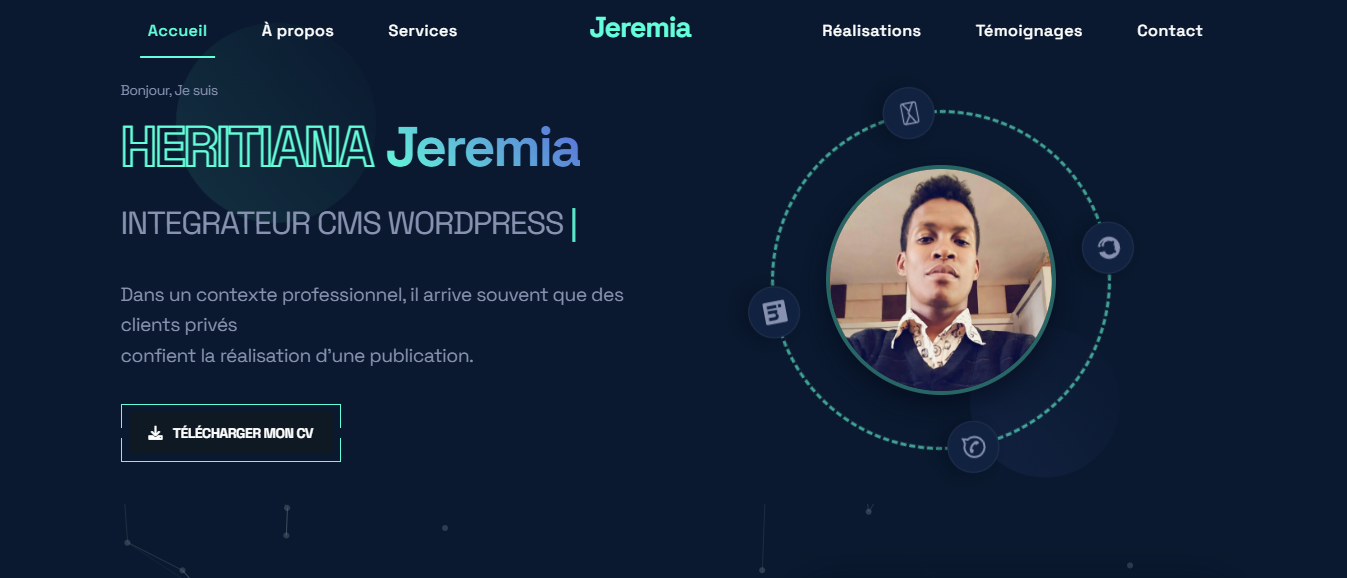
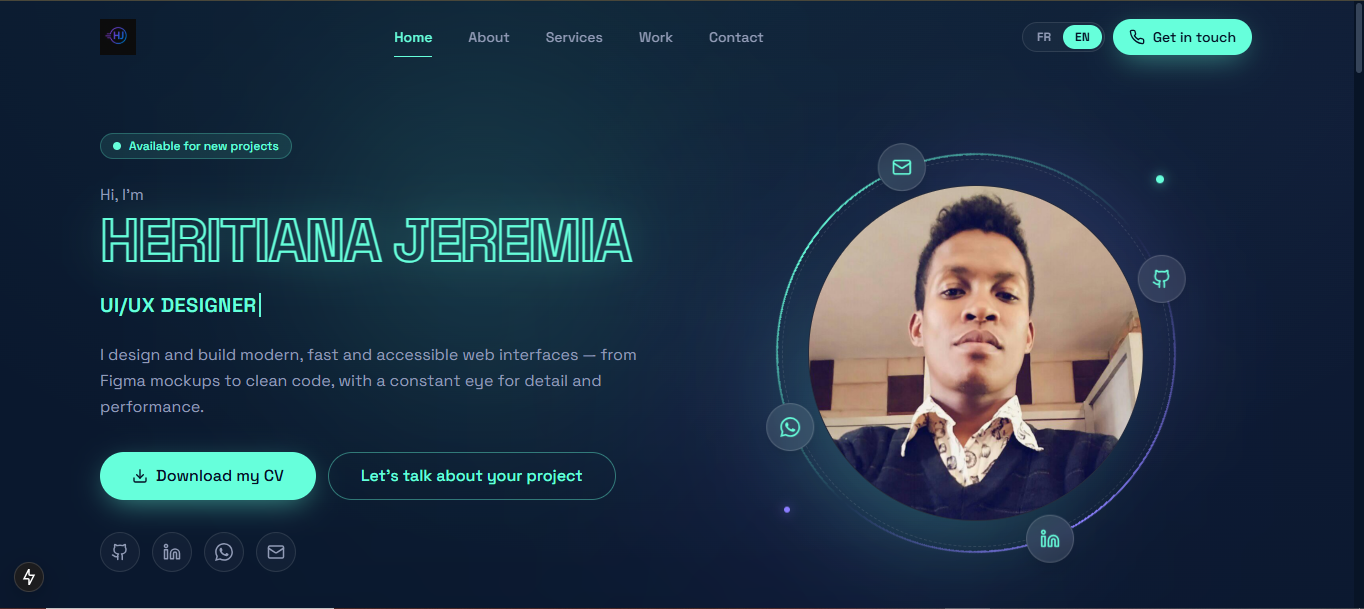
second commit

diff --git a/lib/data.ts b/lib/data.ts
@@ -192,6 +192,43 @@ export const projects: Project[] = [
       en: "Full Figma mockup of the Softimad website.",
     },
   },
+    {
+    id: "design_web",
+    name: "Web studio",
+    category: "design",
+    image: "/img/img-projet/meb-studio.png",
+    url: "https://www.figma.com/proto/QsDp9Is3a3Wz0IhhFSs6Bd/Meb?node-id=49-344&t=5q55nYL1WGXoVljV-0&scaling=scale-down-width&content-scaling=fixed&page-id=0%3A1&starting-point-node-id=49%3A344",
+    url: "https://mebstudio.mg/",
+    tags: ["Figma", "Web Design"],
+    desc: {
+      fr: "Maquette Figma complète du site Meb Studio.",
+      en: "Full Figma mockup of the Meb Studio website.",
+    },
+  },
+   {
+    id: "design_web",
+    name: "Web Design",
+    category: "design",
+    image: "/img/img-projet/mangabay.png",
+    url: "https://https://mangabaylodge.com/fr/",
+    tags: ["Figma", "Web Design"],
+    desc: {
+      fr: "Maquette Figma complète du site Meb Studio.",
+      en: "Full Figma mockup of the Meb Studio website.",
+    },
+  },
+   {
+    id: "design_web",
+    name: "Web Design",
+    category: "design",
+    image: "/img/img-projet/sorea.png",
+    url: "https://sorea.mg/",
+    tags: ["Figma", "Web Design"],
+    desc: {
+      fr: "Maquette Figma complète du site Meb Studio.",
+      en: "Full Figma mockup of the Meb Studio website.",
+    },
+  },
   {
     id: "design-landing",
     name: "Landing Page",
@@ -228,6 +265,42 @@ export const projects: Project[] = [
       en: "Interface concept for a mobile application.",
     },
   },
+     {
+    id: "design-app",
+    name: "Application mobile",
+    category: "design",
+    image: "/img/img-projet/appbefiana.png",
+    url: "https://www.figma.com/proto/q6nndM1gE82KQvBeyyEvPn/Befiana?node-id=377-3532&t=8IpKlc8sfECu5MfV-0&scaling=scale-down&content-scaling=fixed&page-id=326%3A3551&starting-point-node-id=377%3A3062&show-proto-sidebar=1",
+    tags: ["Figma", "Mobile"],
+    desc: {
+      fr: "Concept d'interface pour une application mobile.",
+      en: "Interface concept for a mobile application.",
+    },
+  },
+  {
+    id: "design-app",
+    name: "Application mobile",
+    category: "design",
+    image: "/img/img-projet/design-social.png",
+    url: "https://www.figma.com",
+    tags: ["Figma", "Social"],
+    desc: {
+      fr: "Concept d'interface pour une application mobile.",
+      en: "Interface concept for a mobile application.",
+    },
+  },
+    {
+    id: "design-app",
+    name: "Application mobile",
+    category: "design",
+    image: "/img/img-projet/app1.png",
+    url: "https://www.figma.com/proto/LYJtzG3tHvxC6DwrVwP2k5/Tutoriel?node-id=111-66&t=4VxKYNL7HFlZ2fHX-0&scaling=scale-down&content-scaling=fixed&page-id=12%3A4&starting-point-node-id=96%3A292&show-proto-sidebar=1",
+    tags: ["Figma", "Social"],
+    desc: {
+      fr: "Concept d'interface pour une application mobile.",
+      en: "Interface concept for a mobile application.",
+    },
+  },
   {
     id: "design-brand",
     name: "Identité de marque",
@@ -240,16 +313,28 @@ export const projects: Project[] = [
       en: "Visual identity and component exploration.",
     },
   },
-  {
-    id: "design-social",
-    name: "Kit réseaux sociaux",
+   {
+    id: "design-brand",
+    name: "Identité de marque",
     category: "design",
-    image: "/img/img-projet/design-social.png",
-    url: "https://www.figma.com",
-    tags: ["Figma", "Social"],
+    image: "/img/img-projet/oxygene.png",
+    url: "https://ox6gene.ch/",
+    tags: ["Figma", "Branding"],
     desc: {
-      fr: "Kit de visuels pour les réseaux sociaux.",
-      en: "Visual kit for social media.",
+      fr: "Exploration d'identité visuelle et de composants.",
+      en: "Visual identity and component exploration.",
+    },
+  },
+  {
+    id: "design-brand",
+    name: "Identité de marque",
+    category: "design",
+    image: "/img/img-projet/ADC.png",
+    url: "https://tibetansoundinstitute.com/fr/",
+    tags: ["Figma", "Branding"],
+    desc: {
+      fr: "Exploration d'identité visuelle et de composants.",
+      en: "Visual identity and component exploration.",
     },
   },
 ];
